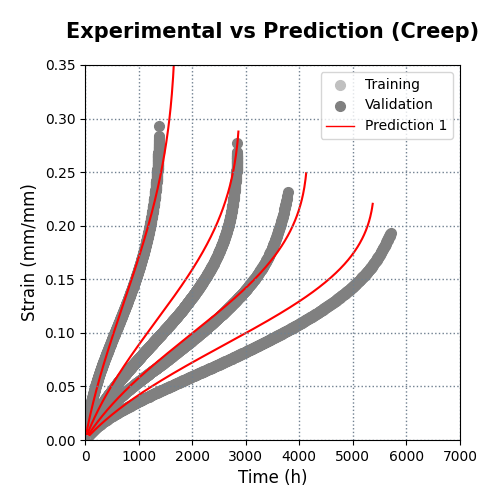
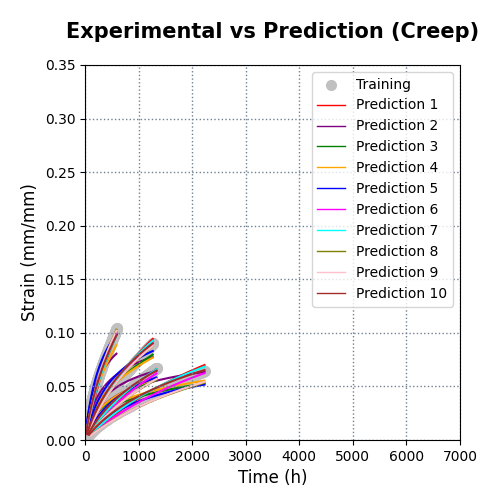
Changed results to rating system; param changes to plot function

Changed region(s): [[0.15, 0.12, 0.9, 0.9]]

diff --git a/scripts/plot_sem/plot_evpwd_800.py b/scripts/plot_sem/plot_evpwd_800.py
@@ -2,46 +2,32 @@ import sys; sys.path += ["../.."]
 from moga_neml.api import API
 
 api = API("plot", output_here=True, input_path="../data", output_path="../results")
-api.define_model("evp")
+api.define_model("evpwdb")
 
 api.read_data("creep/inl_1/AirBase_800_80_G25.csv")
-api.remove_damage()
 api.add_error("dummy")
 api.read_data("creep/inl_1/AirBase_800_70_G44.csv")
-api.remove_damage()
 api.add_error("dummy")
 api.read_data("creep/inl_1/AirBase_800_65_G33.csv")
-api.remove_damage(0.1, 0.7)
 # api.add_error("dummy")
 api.read_data("creep/inl_1/AirBase_800_60_G32.csv")
-api.remove_damage(0.1, 0.7)
 # api.add_error("dummy")
 api.read_data("tensile/inl/AirBase_800_D7.csv")
-api.remove_manual("strain", 0.3)
 api.add_error("dummy")
 
 params_str = """
-31.327	104.92	0.8548	3.7508	2575.8
-22.393	462.57	0.13573	4.314	1828.1
-11.45	53.151	7.1666	3.9502	2221.6
-37.742	49.123	2.4996	3.4102	3172
-18.768	89.18	0.88069	4.5055	1677.4
-23.304	306.58	0.32123	4.2592	1822.6
-31.137	31.413	4.6003	3.6958	2583
-29.726	45.991	2.3174	3.9613	2101.3
-4.2227	26.503	4.0461	5.25	1261.4
-4.4611	35.628	31.021	3.6186	3016.2
+31.327	104.92	0.8548	3.7508	2575.8	1.6237	0.26359	3.1652	1.7229	0.52892	0.28256
+22.393	462.57	0.13573	4.314	1828.1	2.0305	0.26047	3.0701	4.717	0.15376	2.6136
 """
 params_list = [list(map(float, line.split())) for line in params_str.strip().split("\n")]
 
 api.plot_predictions(
     params_list = params_list,
-    clip        = True,
     limits_dict = {"creep": ((0, 8000), (0, 0.8)), "tensile": ((0, 1.0), (0, 500))},
 )
 
-api.plot_distribution(
-    params_list = params_list,
-    limits_dict = {"evp_s0": (0, 40), "evp_R": (0, 500), "evp_d": (0, 50), "evp_n": (0, 10), "evp_eta": (0, 4000)},
-    # log=True,
-)
+# api.plot_distribution(
+#     params_list = params_list,
+#     limits_dict = {"evp_s0": (0, 40), "evp_R": (0, 500), "evp_d": (0, 50), "evp_n": (0, 10), "evp_eta": (0, 4000)},
+#     # log=True,
+# )

diff --git a/scripts/plot_sem/plot_evpwd_900.py b/scripts/plot_sem/plot_evpwd_900.py
@@ -4,33 +4,32 @@ from moga_neml.api import API
 api = API("plot", output_here=True, input_path="../data", output_path="../results")
 api.define_model("evpwdb")
 
-# api.read_data("creep/inl_1/AirBase_800_80_G25.csv")
-# api.read_data("creep/inl_1/AirBase_800_70_G44.csv")
-# api.read_data("creep/inl_1/AirBase_800_65_G33.csv")
-# api.read_data("creep/inl_1/AirBase_800_60_G32.csv")
-# api.read_data("tensile/inl/AirBase_800_D7.csv")
-
 api.read_data("creep/inl_1/AirBase_900_36_G22.csv")
+api.add_error("dummy")
 api.read_data("creep/inl_1/AirBase_900_31_G50.csv")
+api.add_error("dummy")
 api.read_data("creep/inl_1/AirBase_900_28_G45.csv")
+api.add_error("dummy")
 api.read_data("creep/inl_1/AirBase_900_26_G59.csv")
 api.remove_oxidation()
+api.add_error("dummy")
 api.read_data("tensile/inl/AirBase_900_D10.csv")
+api.add_error("dummy")
 
 params_str = """
 4.8238	378.86	0.1423	4.4021	1006.9	1.3282	0.54573	4.6946	3.1679	0.25372	2.5292
+7.1037	48.235	4.2972	3.4084	1829.9	1.4641	0.47352	3.8867	7.1471	0.056285	2.2601
+3.0461	19.608	32.421	3.2736	2022.3	2.8747	0.35839	3.0429	9.1084	0.076354	2.1876
 """
-# 17.42	217.36	0.33131	2.034	42591	2632.8	4.0648	5.8117
 params_list = [list(map(float, line.split())) for line in params_str.strip().split("\n")]
 
 api.plot_predictions(
     params_list = params_list,
-    # limits_dict = {"creep": ((0, 6000), (0, 0.8)), "tensile": ((0, 0.7), (0, 400))},  # 800
-    limits_dict = {"creep": ((0, 7000), (0, 0.35)), "tensile": ((0, 0.8), (0, 250))}, # 900
+    limits_dict = {"creep": ((0, 7000), (0, 0.35)), "tensile": ((0, 1.0), (0, 250))},
 )
 
-api.plot_distribution(
-    params_list = params_list,
-    # limits_dict = [(-5, 50), (10, 50), (-10)],
-    log=True,
-)
+# api.plot_distribution(
+#     params_list = params_list,
+#     limits_dict = {"evp_s0": (0, 40), "evp_R": (0, 500), "evp_d": (0, 50), "evp_n": (0, 10), "evp_eta": (0, 4000)},
+#     # log=True,
+# )

diff --git a/scripts/plot_sem/plot_evpcd_900.py b/scripts/plot_sem/plot_evpcd_900.py
@@ -4,33 +4,32 @@ from moga_neml.api import API
 api = API("plot", output_here=True, input_path="../data", output_path="../results")
 api.define_model("evpcd")
 
-# api.read_data("creep/inl_1/AirBase_800_80_G25.csv")
-# api.read_data("creep/inl_1/AirBase_800_70_G44.csv")
-# api.read_data("creep/inl_1/AirBase_800_65_G33.csv")
-# api.read_data("creep/inl_1/AirBase_800_60_G32.csv")
-# api.read_data("tensile/inl/AirBase_800_D7.csv")
-
 api.read_data("creep/inl_1/AirBase_900_36_G22.csv")
+api.add_error("dummy")
 api.read_data("creep/inl_1/AirBase_900_31_G50.csv")
+api.add_error("dummy")
 api.read_data("creep/inl_1/AirBase_900_28_G45.csv")
+api.add_error("dummy")
 api.read_data("creep/inl_1/AirBase_900_26_G59.csv")
 api.remove_oxidation()
+api.add_error("dummy")
 api.read_data("tensile/inl/AirBase_900_D10.csv")
+api.add_error("dummy")
 
 params_str = """
 4.871	11.518	7.0281	4.2421	1138.3	5825.6	3.4992	7.5202
+10.692	29.068	2.9831	3.7278	1433.5	1588.8	4.5518	5.8509
+11.2	24.262	2.2615	3.9651	1163	1730.2	4.5327	7.9908
 """
-# 17.42	217.36	0.33131	2.034	42591	2632.8	4.0648	5.8117
 params_list = [list(map(float, line.split())) for line in params_str.strip().split("\n")]
 
 api.plot_predictions(
     params_list = params_list,
-    # limits_dict = {"creep": ((0, 6000), (0, 0.8)), "tensile": ((0, 0.7), (0, 400))},  # 800
-    limits_dict = {"creep": ((0, 7000), (0, 0.35)), "tensile": ((0, 0.8), (0, 250))}, # 900
+    limits_dict = {"creep": ((0, 7000), (0, 0.35)), "tensile": ((0, 1.0), (0, 250))},
 )
 
-api.plot_distribution(
-    params_list = params_list,
-    # limits_dict = [(-5, 50), (10, 50), (-10)],
-    log=True,
-)
+# api.plot_distribution(
+#     params_list = params_list,
+#     limits_dict = {"evp_s0": (0, 40), "evp_R": (0, 500), "evp_d": (0, 50), "evp_n": (0, 10), "evp_eta": (0, 4000)},
+#     # log=True,
+# )

diff --git a/scripts/plot_sem/plot_evp_900.py b/scripts/plot_sem/plot_evp_900.py
@@ -12,15 +12,16 @@ api.remove_damage(0.1, 0.7)
 api.add_error("dummy")
 api.read_data("creep/inl_1/AirBase_900_28_G45.csv")
 api.remove_damage(0.1, 0.7)
-# api.add_error("dummy")
+api.add_error("dummy")
 api.read_data("creep/inl_1/AirBase_900_26_G59.csv")
 api.remove_damage(0.1, 0.7)
-# api.add_error("dummy")
+api.add_error("dummy")
 api.read_data("tensile/inl/AirBase_900_D10.csv")
 api.remove_manual("strain", 0.3)
 api.add_error("dummy")
 
 params_str = """
+4.8238	378.86	0.1423	4.4021	1006.9
 7.1037	48.235	4.2972	3.4084	1829.9
 3.0461	19.608	32.421	3.2736	2022.3
 4.634	18.607	24.896	3.3436	1999.7
@@ -29,7 +30,6 @@ params_str = """
 6.3647	149.54	0.43913	4.1839	1127.6
 12.622	15.441	4.5386	3.7305	1371.6
 12.256	273.68	0.20866	3.8422	1242.3
-4.8238	378.86	0.1423	4.4021	1006.9
 7.044	16.175	6.7949	4.1207	1090
 """
 params_list = [list(map(float, line.split())) for line in params_str.strip().split("\n")]
@@ -37,7 +37,7 @@ params_list = [list(map(float, line.split())) for line in params_str.strip().spl
 api.plot_predictions(
     params_list = params_list,
     clip        = True,
-    limits_dict = {"creep": ((0, 7000), (0, 0.35)), "tensile": ((0, 0.8), (0, 250))},
+    limits_dict = {"creep": ((0, 7000), (0, 0.35)), "tensile": ((0, 1.0), (0, 250))},
 )
 
 api.plot_distribution(

diff --git a/scripts/plot_sem/plot_evpcd_800.py b/scripts/plot_sem/plot_evpcd_800.py
@@ -1,0 +1,33 @@
+import sys; sys.path += ["../.."]
+from moga_neml.api import API
+
+api = API("plot", output_here=True, input_path="../data", output_path="../results")
+api.define_model("evpcd")
+
+api.read_data("creep/inl_1/AirBase_800_80_G25.csv")
+api.add_error("dummy")
+api.read_data("creep/inl_1/AirBase_800_70_G44.csv")
+api.add_error("dummy")
+api.read_data("creep/inl_1/AirBase_800_65_G33.csv")
+api.add_error("dummy")
+api.read_data("creep/inl_1/AirBase_800_60_G32.csv")
+api.add_error("dummy")
+api.read_data("tensile/inl/AirBase_800_D7.csv")
+api.add_error("dummy")
+
+params_str = """
+17.217	179.74	0.61754	4.4166	1783.5	1889.7	5.5457	6.5846
+5.6908	66.627	1.9851	4.7723	1621.6	1793.4	5.6519	6.8314
+"""
+params_list = [list(map(float, line.split())) for line in params_str.strip().split("\n")]
+
+api.plot_predictions(
+    params_list = params_list,
+    limits_dict = {"creep": ((0, 8000), (0, 0.8)), "tensile": ((0, 1.0), (0, 500))},
+)
+
+# api.plot_distribution(
+#     params_list = params_list,
+#     limits_dict = {"evp_s0": (0, 40), "evp_R": (0, 500), "evp_d": (0, 50), "evp_n": (0, 10), "evp_eta": (0, 4000)},
+#     # log=True,
+# )
